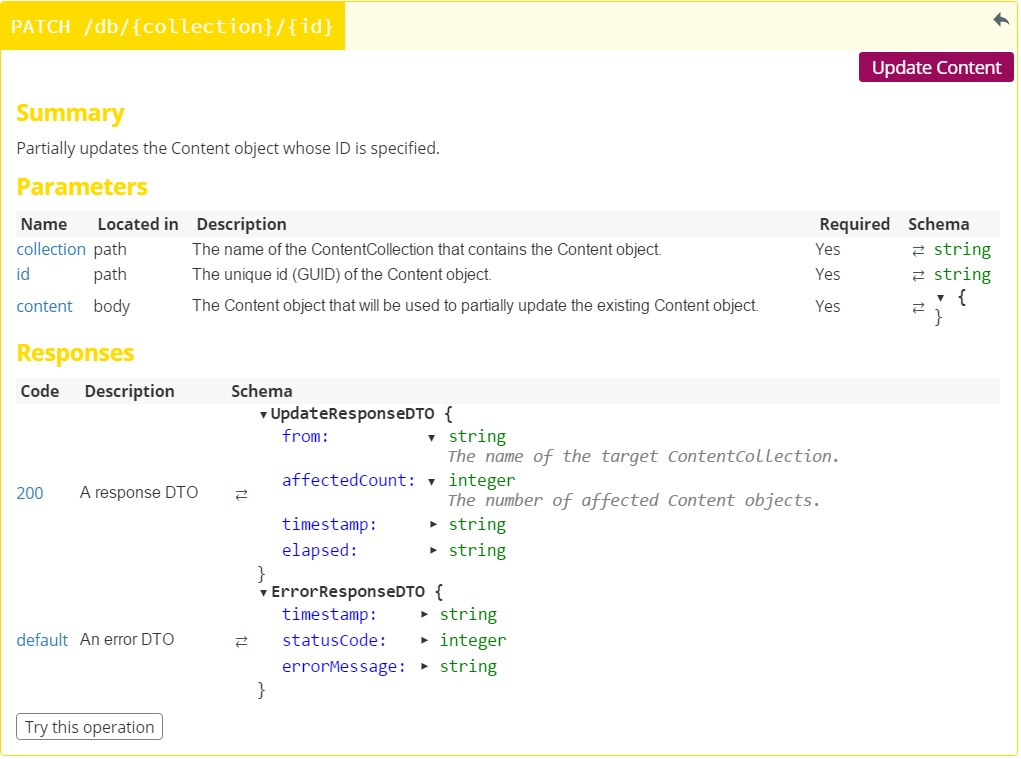
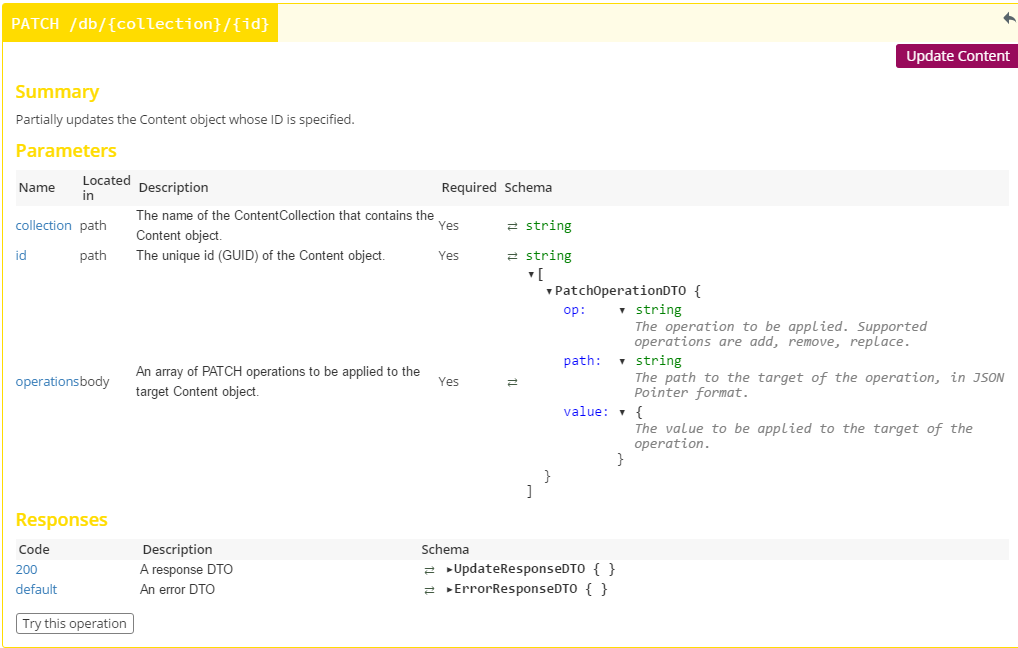
.

diff --git a/_posts/2016-01-04-rest-api.md b/_posts/2016-01-04-rest-api.md
@@ -22,6 +22,10 @@ fa-icon: codepen
 - To update an existing JSON Content, use the `PUT /db/{collection}/{id}` endpoint. The JSON Content that you send will 
   replace the existing one.
   ![Put Content](img/put-collection.png)
+- To partially update an existing JSON Content, use the `PATCH /db/{collection}/{id}` endpoint. This endpoint implements
+  the **JSON-Patch** standard defined in [**RFC6902**](https://tools.ietf.org/html/rfc6902). Note that ExpandoDB only supports
+  the following **PATCH** operations: **add**, **remove**, and **replace**.
+  ![Patch Content](img/patch-collection.png)  
 - To remove an existing JSON Content, use the `DELETE /db/{collection}/{id}` endpoint.
   ![Delete Content](img/delete-collection.png) 
 - To remove an entire Content Collection, use the `DELETE /db/{collection}` endpoint.
